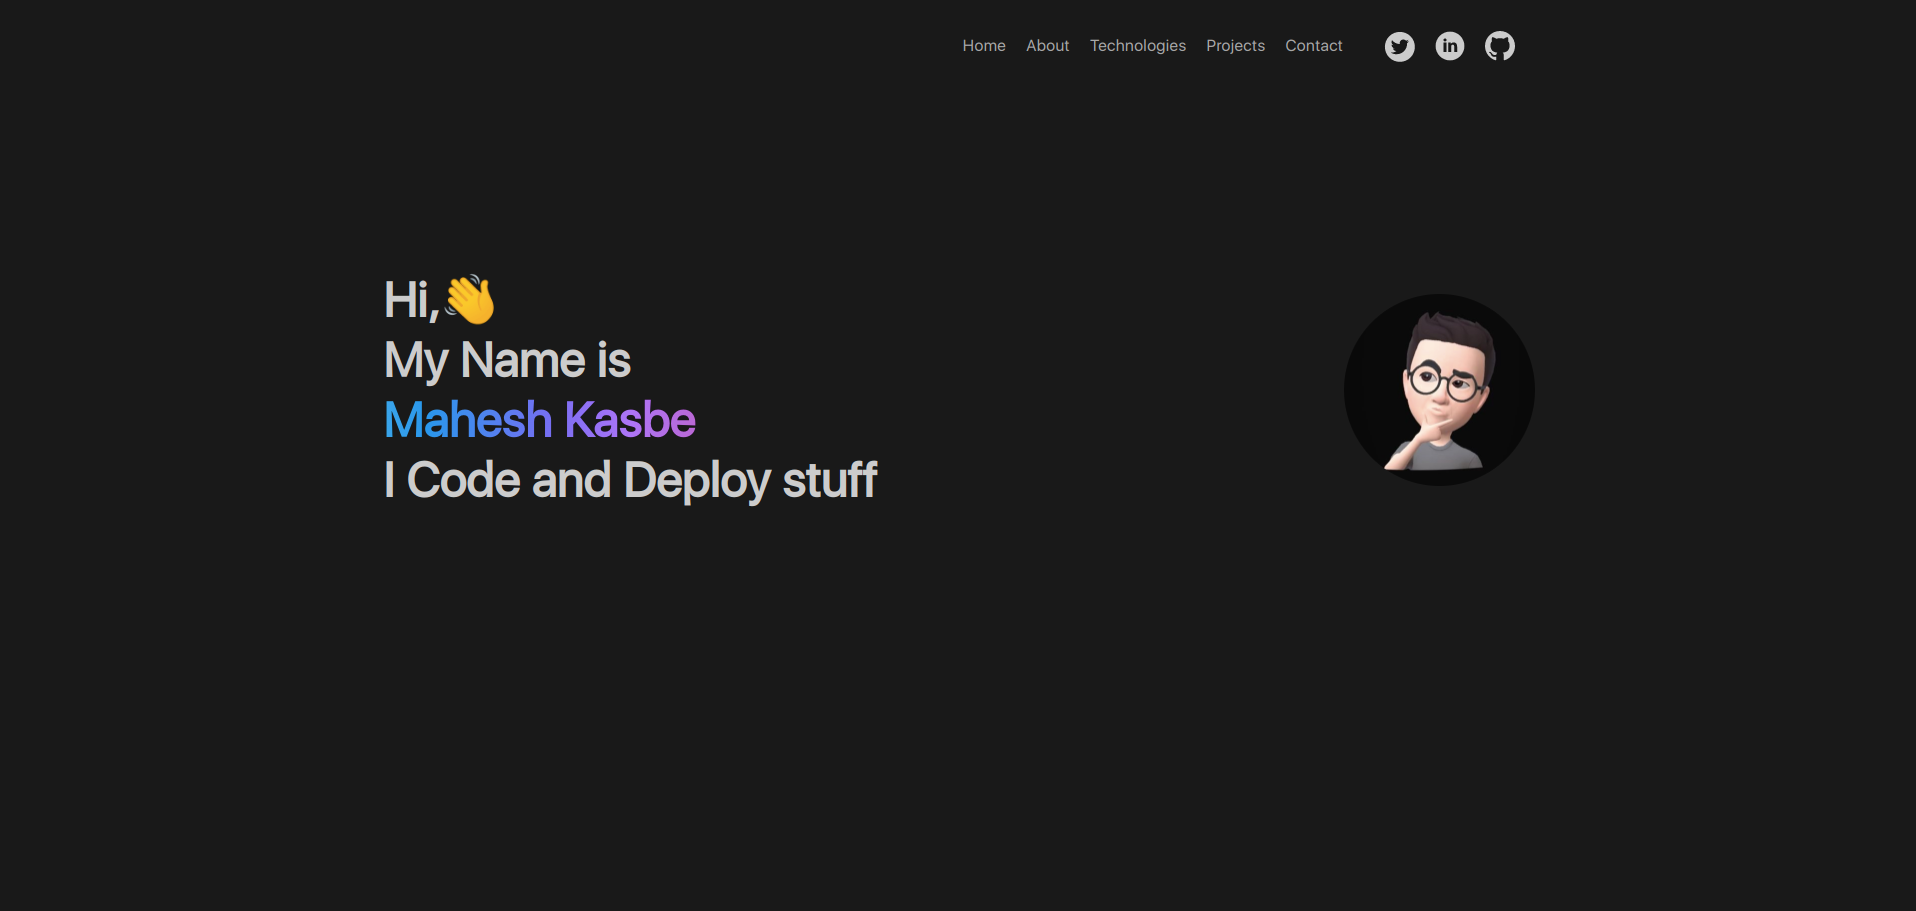
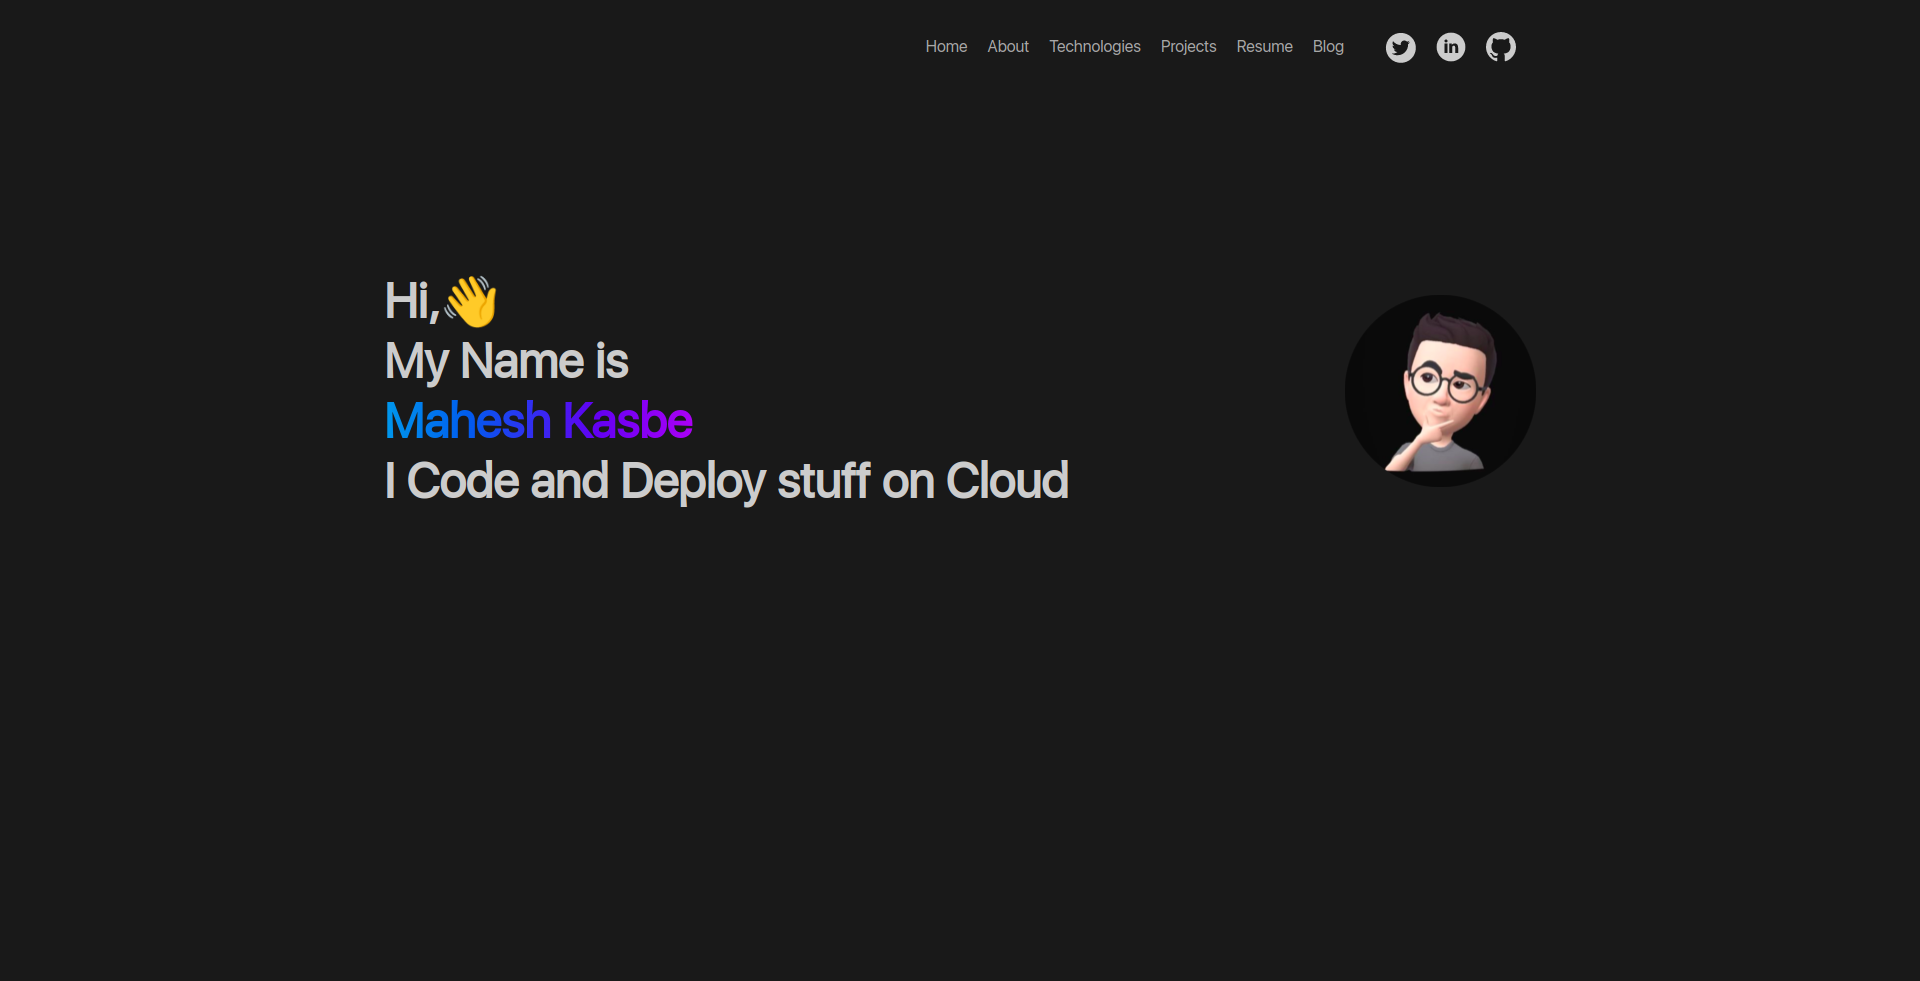
Updated

Changed region(s): [[0.1848, 0.2766, 0.5543, 0.5532], [0.7082, 0.3074, 0.8006, 0.5225], [0.4927, 0.0307, 0.8006, 0.0615]]

diff --git a/src/Details.js b/src/Details.js
@@ -17,6 +17,7 @@ import terraform from "./assets/techstack/terraform.png";
 import mongodb from "./assets/techstack/mongodb.png";
 import firebase from "./assets/techstack/firebase.png";
 import aws from "./assets/techstack/aws.png";
+import go from "./assets/techstack/go.png"
 
 // Porject Images
 import projectImage1 from "./assets/projects/project1.png";
@@ -30,13 +31,19 @@ export const personalDetails = {
   name: "Mahesh Kasbe",
   tagline: "I Code and Deploy stuff on Cloud",
   img: profile,
-  about: `Mahesh is an Open Source and Devops Enthusiast . He loves to contribute to opensource projects and Make people understand the underline concepts of DevOps and System DesignMahesh is an Open Source and Devops Enthusiast . He loves to contribute to opensource projects and Make people understand the underline concepts of DevOps and System Design`,
+  about: `Mahesh is a passionate Open Source Contributor and DevOps Enthusiast, with extensive experience in Java and Golang. His curiosity and eagerness to learn have led him to explore various cloud native tools, which he enjoys sharing with others through his Personal Blog.
+
+  Since his freshmen year, Mahesh has been contributing to the open source community, where he has gained valuable experience in Microservices and Systems Design. He is also adept at solving complex Data Structures and Algorithms questions, with a proven track record on platforms like Leetcode and Geeksforgeeks.
+  
+  Mahesh has a knack for explaining the underlying concepts of DevOps tools and System Design, which has made him a sought-after speaker at various conferences and meetups. He has also dabbled in Developer Advocacy and Software Engineering, where he has gained valuable experience and skills.
+  
+  Currently, Mahesh is seeking opportunities in roles such as Software Engineer, Developer Advocate or DevOps Engineer, where he can continue to contribute his expertise and passion for technology.`,
 };
 
 // Enter your Social Media URLs here
 export const socialMediaUrl = {
   linkdein: "https://www.linkedin.com/in/maheshkasbe",
-  github: "https://www.github.com/mahesh-kasabe",
+  github: "https://www.github.com/maheshkasabe",
   twitter: "https://twitter.com/maheshstwt",
   instagram: "https://www.instagram.com/",
 };
@@ -44,25 +51,39 @@ export const socialMediaUrl = {
 // Enter your Work Experience here
 export const workDetails = [
   {
-    Position: "Developer",
-    Company: `Company Name here`,
+    Position: "Mentee",
+    Company: `Google Summer of Code - NRNB`,
     Location: "Remote",
     Type: "Insternship",
-    Duration: "Jan 2023 - Present",
+    Duration: "May 2023 - Sept 2023",
   },
   {
-    Position: "Developer",
-    Company: `Company Name here`,
+    Position: "Open Source Developer",
+    Company: `Tracetest - Kubeshop`,
     Location: "Remote",
-    Type: "Internship",
-    Duration: "Jan 2022 - Present",
+    Type: "Insternship",
+    Duration: "March 2023 - Dec 2023",
   },
   {
     Position: "Developer Advocate",
     Company: `Napptive`,
     Location: "Remote",
-    Type: "Developer Advocate",
-    Duration: "Jan 2022 - Present",
+    Type: "Internship",
+    Duration: "Jan 2023 - May 2023",
+  },
+  {
+    Position: "Full Stack Developer",
+    Company: `Mezchip`,
+    Location: "Remote",
+    Type: "Internship",
+    Duration: "Aug 2022 - Oct 2022",
+  },
+  {
+    Position: "Freelance Software Developer",
+    Company: ``,
+    Location: "Remote",
+    Type: "Self-employed",
+    Duration: "Aug 2021 - Jan 2022",
   },
 ];
 
@@ -93,7 +114,8 @@ export const techStackDetails = {
   terraform: terraform,
   mongodb: mongodb,
   firebase: firebase,
-  aws: aws
+  aws: aws,
+  go: go
 };
 
 // Enter your Project Details here
@@ -103,8 +125,8 @@ export const projectDetails = [
     image: projectImage1,
     description: `A Microservices  Bug Tracker Application implemented using best Devops Practices .`,
     techstack: "SpringBoot , ELK , RabbitMQ , ReactJS , Docker , Kubernetes , Terraform , Argocd , Github-Actions , Javascript , Java  ",
-    previewLink: "https://github.com/Mahesh-Kasabe/Microservice-Devops-Project",
-    githubLink: "https://github.com/Mahesh-Kasabe/Microservice-Devops-Project",
+    previewLink: "https://github.com/maheshkasabe/Microservice-Bug-Tracker",
+    githubLink: "https://github.com/maheshkasabe/Microservice-Bug-Tracker",
   },
   {
     title: "K-Dash",
@@ -112,7 +134,7 @@ export const projectDetails = [
     description: `Build with React & JavaScript. Real-time Browser-based Monitoring of Your Kubernetes Cluster , Nodes with Kubernetes API.`,
     techstack: "Javascript , ReactJS , HTML , CSS , Kubernetes API , ChartJS ",
     previewLink: "https://user-images.githubusercontent.com/60398112/208110242-b3ecad1d-2a4e-4a4d-b79d-b3cc3c7e33ee.mp4",
-    githubLink: "https://github.com/Mahesh-Kasabe/K-Dash",
+    githubLink: "https://github.com/maheshkasabe/K-Dash",
   },
   {
     title: "Let's Meet (Devops)",
@@ -120,7 +142,7 @@ export const projectDetails = [
     description: `Let's Meet is a One-O-One Video calling application with some intigrated features such as Live Chatting and Sending invitation through Email`,
     techstack: "Node.js , ReactJS , Express , EmailJS , JavaScript , WebRTC , Socket.io",
     previewLink: "https://letsmeetapp.netlify.app/",
-    githubLink: "https://github.com/Mahesh-Kasabe/Lets-Meet-Devops",
+    githubLink: "https://github.com/maheshkasabe/Lets-Meet-Devops",
   },
   {
     title: "Coinbase",
@@ -128,7 +150,7 @@ export const projectDetails = [
     description: `Build with React, JavaScript, and Firebase. Real-time data from Coinranking API.`,
     techstack: "ReactJS, Firebase, ChartJS, Javascript, CoinStats API ",
     previewLink: "https://coinbase-c0f7f.web.app/",
-    githubLink: "https://github.com/Mahesh-Kasabe/Coinbase",
+    githubLink: "https://github.com/maheshkasabe/Coinbase",
   },
   {
     title: "Ecommerce",
@@ -136,12 +158,12 @@ export const projectDetails = [
     description: `An Ecommerce store made with ReactJS and Javascript and intigrated with stripe for payment gateway`,
     techstack: "React , Firebase , Stripe",
     previewLink: "https://ecommerce-6bffc.web.app/",
-    githubLink: "https://github.com/Mahesh-Kasabe/Ecommerce",
+    githubLink: "https://github.com/maheshkasabe/Ecommerce",
   },
 ];
 
 // Enter your Contact Details here
 export const contactDetails = {
-  email: "maheshkasbe010@gmail.com",
+  email: "abc@gmail.com",
   phone: "+91 12345 67890",
 };

diff --git a/src/Pages/Technologies.js b/src/Pages/Technologies.js
@@ -18,6 +18,7 @@ function Technologies() {
     aws,
     npm,
     postman,
+    go,
   } = techStackDetails;
   return (
     <main className="container mx-auto max-width pt-10 pb-20 ">
@@ -35,6 +36,7 @@ function Technologies() {
         <img src={java} title="Java" alt="" />
         <img src={springboot} title="SpringBoot" alt="" />
         <img src={python} title="Python" alt="" />
+        <img src={go} title="Go" alt="" />
 
       </section>
       <section>
@@ -53,6 +55,7 @@ function Technologies() {
         <img src={aws} title="aws" alt="Postman" />
         <img src={mongodb} title="MongoDB" alt="" />
         <img src={firebase} title="Firebase" alt="" />
+
 
 
       </section>

diff --git a/src/Components/Header.js b/src/Components/Header.js
@@ -52,14 +52,19 @@ function Header() {
               Projects
             </NavLink>
           </li>
-          <li>
+          {/* <li>
             <NavLink to="/contact" onClick={toggleClass}>
               Contact
             </NavLink>
-          </li>
+          </li> */}
           <li>
             <a href="https://github.com/Mahesh-Kasabe/Resume/blob/master/Resume.pdf" onClick={toggleClass}>
               Resume
+            </a>
+          </li>
+          <li>
+            <a href="https://maheshkasbe.hashnode.dev" onClick={toggleClass}>
+              Blog
             </a>
           </li>
         </ul>

diff --git a/README.md b/README.md
@@ -1,4 +1,4 @@
 # Portfolio
-#### Live Demo https://mahesh-kasabe.github.io/
+#### Live Demo https://maheshkasabe.github.io/
 
-![alt tag](https://github.com/Mahesh-Kasabe/mahesh-kasabe.github.io/blob/master/preview.png?raw=true)
+![alt tag](https://github.com/Mahesh-Kasabe/maheshkasabe.github.io/blob/master/preview.png?raw=true)
